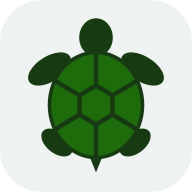
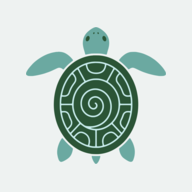
Schildkröte als Marke, 404-Seite, mobiler Hero und Pages-Deploy
- Schildkröten-Illustration vektorisiert (turtle.svg) für Logo, 404 und Favicons
- 404-Seite mit Schildkröte als „0“, Buttons mittig unter dem Text
- Hero mobil: genau eine Bildschirmhöhe, Anruf-Button neben „Erstgespräch“,
  Headline bei 375 px wieder zweizeilig
- Menü mobil bildschirmhoch, Burger-Striche gleich dick
- Sitemap, robots.txt
- GitHub-Pages-Deploy per Workflow (Unterordner /Systembrett)

diff --git a/src/styles/global.css b/src/styles/global.css
@@ -19,12 +19,15 @@
 *, *::before, *::after { box-sizing: border-box; }
 html { scroll-behavior: smooth; scroll-padding-top: calc(var(--header) + 1rem); }
 body {
+  display: flex;
+  flex-direction: column;
   margin: 0;
-  min-height: 100vh;
+  min-height: 100svh;
   overflow-x: clip;
   background: transparent; /* das feste Bild liegt darunter */
 }
 body.nav-open { overflow: hidden; }
+main { flex: 1; }
 
 /* —— Festes Hintergrundbild für alle Seiten —— */
 .backdrop {
@@ -48,7 +51,13 @@ body.nav-open { overflow: hidden; }
 /* Mobil: Bild nur hinter dem Hero-Band, darunter ruhiger Nebelgrund.
    Das Bild ist etwas größer als das Band und nach oben verschoben, damit die Steine über der Headline sitzen. */
 @media (max-width: 959px) {
-  :root { --hero-band: clamp(24rem, 66svh, 38rem); }
+  /* Startbildschirm = genau eine Bildschirmhöhe: Zitat + Buttons haben feste Höhe (--hero-below),
+     das Bildband füllt den Rest. svh = mit sichtbarer Adressleiste, springt also nicht beim Scrollen. */
+  :root {
+    --hero-below: 20rem;
+    --hero-band: clamp(17rem, calc(100vh - var(--hero-below)), 46rem);
+    --hero-band: clamp(17rem, calc(100svh - var(--hero-below)), 46rem);
+  }
   .backdrop {
     height: var(--hero-band);
     -webkit-mask-image: linear-gradient(to bottom, #000 85%, transparent);
@@ -246,13 +255,9 @@ p { margin: 0 0 1rem; color: var(--muted); }
 /* Logo-Zeichen: dieselbe Schildkröte wie im Favicon */
 .brand__mark {
   flex: none;
-  width: 1.85rem;
+  width: 2.3rem;
   height: auto;
-  aspect-ratio: 48 / 56;
 }
-.brand__mark-body { fill: var(--forest-deep); }
-.brand__mark-shell { fill: var(--forest); }
-.brand__mark-ring { fill: none; stroke: var(--accent); stroke-width: 2.4; }
 /* —— Header: unsichtbar über dem Hero, beim Scrollen ein Hauch Papier —— */
 .site-header {
   position: sticky;
@@ -311,8 +316,8 @@ p { margin: 0 0 1rem; color: var(--muted); }
 .nav-toggle__lines::before,
 .nav-toggle__lines::after {
   display: block;
-  width: 1.5rem;
-  height: 1.5px;
+  width: 24px;
+  height: 2px; /* ganze Pixel: alle drei Striche gleich dick */
   border-radius: 1px;
   background: currentColor;
   transition: transform 0.35s cubic-bezier(0.65, 0, 0.35, 1), opacity 0.2s ease, background-color 0.2s ease;
@@ -324,8 +329,8 @@ p { margin: 0 0 1rem; color: var(--muted); }
   position: absolute;
   left: 0;
 }
-.nav-toggle__lines::before { transform: translateY(-0.45rem); }
-.nav-toggle__lines::after { transform: translateY(0.45rem); }
+.nav-toggle__lines::before { transform: translateY(-7px); }
+.nav-toggle__lines::after { transform: translateY(7px); }
 .nav-toggle[aria-expanded="true"] .nav-toggle__lines { background-color: transparent; }
 .nav-toggle[aria-expanded="true"] .nav-toggle__lines::before { transform: rotate(45deg); }
 .nav-toggle[aria-expanded="true"] .nav-toggle__lines::after { transform: rotate(-45deg); }
@@ -347,6 +352,11 @@ p { margin: 0 0 1rem; color: var(--muted); }
     display: grid;
     position: absolute;
     inset: var(--header) -1.25rem auto;
+    align-content: start;
+    height: calc(100vh - var(--header));
+    height: calc(100dvh - var(--header)); /* offen: volle Bildschirmhöhe */
+    overflow-y: auto;
+    overscroll-behavior: contain;
     padding: 0.5rem 1.25rem 1.5rem;
     background: var(--bg);
     border-bottom: 1px solid var(--line);
@@ -473,6 +483,7 @@ p { margin: 0 0 1rem; color: var(--muted); }
   font-size: clamp(1.2rem, 1.6vw, 1.4rem);
   text-align: center;
 }
+.hero__tel { display: none; }
 .hero__actions {
   display: flex;
   flex-wrap: wrap;
@@ -485,6 +496,9 @@ p { margin: 0 0 1rem; color: var(--muted); }
   .hero {
     display: grid;
     grid-template-columns: 1.25rem minmax(0, 1fr) 1.25rem;
+    grid-template-rows: auto 1fr auto; /* Restplatz landet beim Zitat, Buttons sitzen immer unten */
+    min-height: 100vh;
+    min-height: 100svh;
   }
   .hero > .wrap,
   .hero__content,
@@ -513,7 +527,7 @@ p { margin: 0 0 1rem; color: var(--muted); }
     z-index: 1;
     padding-bottom: 1.75rem;
     /* „aufstellung in Magdeburg“ füllt immer genau die Breite (≈ 8,75 em) */
-    font-size: min(calc((100vw - 2.5rem) / 8.75), 4.1rem);
+    font-size: min(calc((100vw - 2.5rem) / 8.95), 4.1rem); /* 8,95 statt 8,75: bei 375 px brach die Zeile sonst um */
   }
   .hero__title-head {
     color: var(--hero-on-image, var(--on-dark));
@@ -524,11 +538,12 @@ p { margin: 0 0 1rem; color: var(--muted); }
   .hero__quote {
     grid-column: 2;
     grid-row: 2; /* mobil: Zitat vor den Buttons */
+    align-self: center;
     justify-self: center;
     width: auto;
     margin-top: 2.25rem;
   }
-  .hero__actions { grid-column: 2; grid-row: 3; margin-top: 2rem; margin-bottom: 3.5rem; }
+  .hero__actions { grid-column: 2; grid-row: 3; justify-content: center; margin-top: 2rem; margin-bottom: 3.5rem; }
 }
 @media (min-width: 960px) {
   main > .hero + * {
@@ -559,9 +574,13 @@ p { margin: 0 0 1rem; color: var(--muted); }
     mask-image: linear-gradient(to bottom, #000 45%, transparent 85%);
   }
   .hero__content {
+    display: grid;
+    width: fit-content; /* so breit wie die Headline: Buttons und Zitat stehen mittig darunter */
     max-width: 46rem;
     padding: calc(var(--header) + clamp(2rem, 10vh, 6.5rem)) 0 4rem;
   }
+  .hero__title { justify-self: start; } /* behält ihre eigene Breite, auch wenn die Buttons breiter sind */
+  .hero__cta { justify-self: center; }
 }
 
 /* —— Methode —— */
@@ -818,6 +837,82 @@ p { margin: 0 0 1rem; color: var(--muted); }
   letter-spacing: -0.03em;
 }
 .page-head__lede { max-width: 36rem; margin-top: 1.2rem; }
+.not-found {
+  display: grid;
+  min-height: min(68svh, 46rem);
+  align-items: center;
+  padding-block: clamp(3rem, 7vw, 6rem);
+}
+.not-found__inner {
+  display: grid;
+  grid-template-columns: minmax(0, 1fr) minmax(12rem, 0.8fr);
+  align-items: center;
+  gap: clamp(2rem, 7vw, 7rem);
+  max-width: 68rem;
+}
+.not-found__copy { width: fit-content; } /* so breit wie die Überschrift: Buttons stehen mittig darunter */
+.not-found__eyebrow {
+  margin: 0 0 1rem;
+  color: var(--accent);
+  font-size: 0.86rem;
+  font-weight: 600;
+  letter-spacing: 0.12em;
+  text-transform: uppercase;
+}
+.not-found__code {
+  display: flex;
+  align-items: center;
+  justify-content: center;
+  gap: 0.015em;
+  margin: 0;
+  color: var(--forest);
+  font-family: var(--font-display);
+  font-size: clamp(10rem, 22vw, 19rem);
+  font-variant-numeric: lining-nums;
+  font-weight: 400;
+  letter-spacing: -0.09em;
+  line-height: 0.8;
+}
+.not-found__code img {
+  flex: none;
+  width: 0.74em;
+  height: auto;
+  margin-inline: 0.04em -0.026em; /* rechts enger: die 4 ist links offen, so wirken beide Abstände zum Panzer gleich */
+  object-fit: contain;
+  filter: drop-shadow(0 0.03em 0.05em rgb(20 40 30 / 0.12));
+}
+.not-found h1 {
+  margin: 0;
+  font-size: clamp(3rem, 6.5vw, 5.5rem);
+  font-weight: 400;
+  line-height: 1.04;
+  letter-spacing: -0.03em;
+}
+.not-found .lead { width: 0; min-width: 100%; margin-top: 1.25rem; } /* zählt nicht zur Breite, füllt aber die der Überschrift */
+.not-found__actions {
+  display: flex;
+  flex-wrap: wrap;
+  align-items: center;
+  justify-content: center;
+  gap: 1rem 1.5rem;
+  margin-top: 1.75rem;
+}
+@media (max-width: 699px) {
+  .not-found__inner {
+    grid-template-columns: 1fr;
+    gap: 2.5rem;
+  }
+  .not-found { padding-block: 2.5rem 3.5rem; }
+  .not-found__code {
+    grid-row: 1;
+    justify-self: center;
+    font-size: clamp(6.5rem, 34vw, 11rem);
+  }
+  .not-found__copy { grid-row: 2; width: auto; }
+  .not-found h1 { font-size: clamp(2.4rem, 11vw, 3.4rem); }
+  .not-found__actions { flex-direction: column; align-items: stretch; gap: 1rem; }
+  .not-found__actions .btn { width: 100%; }
+}
 .page-head__links {
   position: relative;
   display: grid;
@@ -920,6 +1015,7 @@ p { margin: 0 0 1rem; color: var(--muted); }
 @media (max-width: 859px) {
   .place__img {
     aspect-ratio: 16 / 10;
+    border-radius: var(--radius-lg) var(--radius-lg) 0 0; /* oben rund, unten läuft das Bild aus */
     -webkit-mask-image: linear-gradient(180deg, #000 0%, #000 72%, transparent 100%);
     mask-image: linear-gradient(180deg, #000 0%, #000 72%, transparent 100%);
   }
@@ -1357,10 +1453,40 @@ p { margin: 0 0 1rem; color: var(--muted); }
   .teaser .btn,
   .faq__intro .btn,
   .contact-form .btn { width: 100%; }
-  .hero__actions { gap: 1.5rem; justify-content: center; }
+  /* Startseite mobil: Erstgespräch + Anruf nebeneinander, „So läuft ein Termin ab“ darunter */
+  .hero__actions {
+    display: grid;
+    grid-template-columns: minmax(0, 1fr) auto;
+    gap: 1.5rem 0.75rem;
+  }
+  .hero__actions .btn--primary { padding-inline: 1rem; }
+  .hero__actions .hero__tel { display: inline-flex; width: 3.1rem; padding: 0; }
+  .hero__actions .btn--ghost:not(.hero__tel) { grid-column: 1 / -1; }
+  .hero__actions .btn--primary { white-space: nowrap; }
   .process__head { margin-bottom: 2.5rem; }
   .contact-form { padding: 1.25rem; border-radius: var(--radius); }
   .faq__layout { gap: 2rem; }
+}
+
+/* Kurze Handys: Zitat und Abstände kompakter, damit das Bild nicht zu niedrig wird */
+@media (max-width: 959px) and (max-height: 720px) {
+  :root { --hero-below: 17rem; }
+  .hero__quote { margin-top: 1.5rem; font-size: 1.1rem; }
+  .hero__actions { margin-top: 1.5rem; margin-bottom: 2rem; gap: 1rem 0.75rem; }
+}
+/* Handy quer: kein Bildschirmzwang, die Seite scrollt normal */
+@media (max-width: 959px) and (max-height: 500px) {
+  :root { --hero-band: 24rem; }
+  .hero { min-height: 0; }
+}
+/* sehr schmale Handys: Zitat bleibt zweizeilig */
+@media (max-width: 359px) {
+  .hero__quote { font-size: 1.08rem; }
+}
+/* sehr schmale Handys: „Erstgespräch vereinbaren“ bleibt einzeilig neben dem Anruf-Button */
+@media (max-width: 359px) {
+  .hero__actions { column-gap: 0.5rem; }
+  .hero__actions .btn--primary { padding-inline: 0.6rem; font-size: 0.94rem; }
 }
 
 /* —— Bewegung: ein einziger Moment beim Laden —— */
